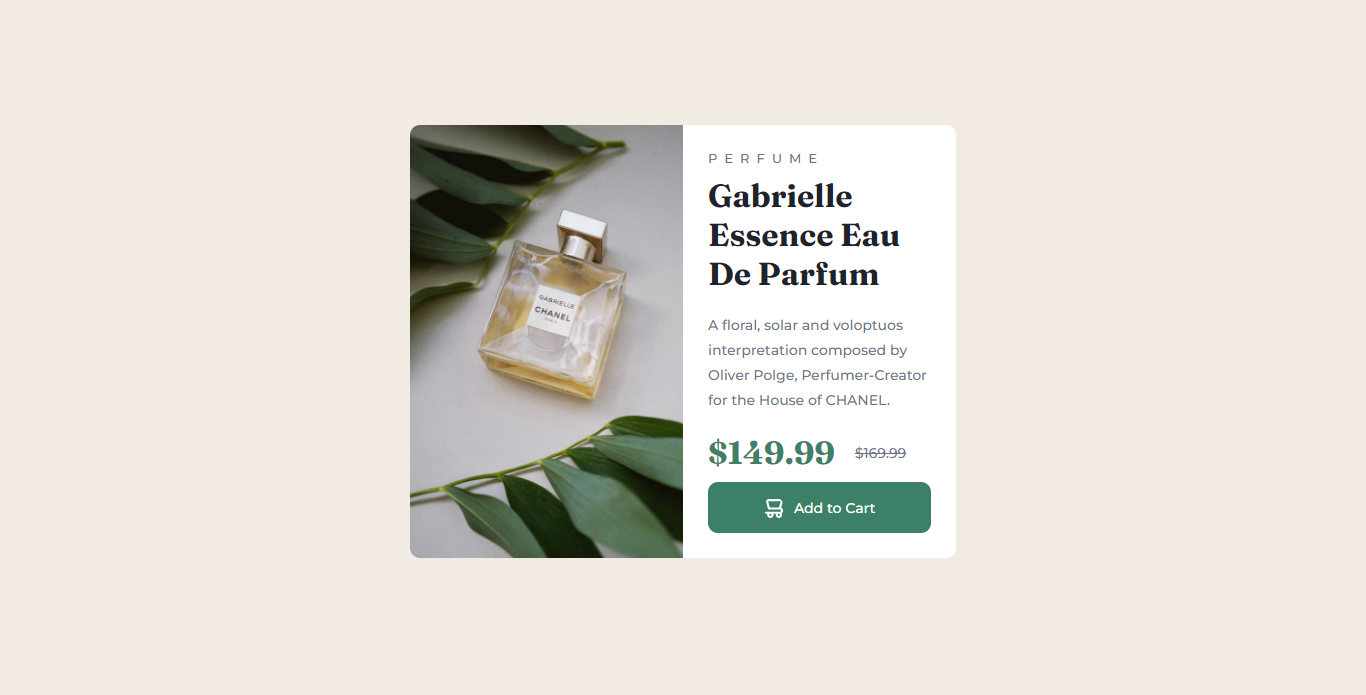
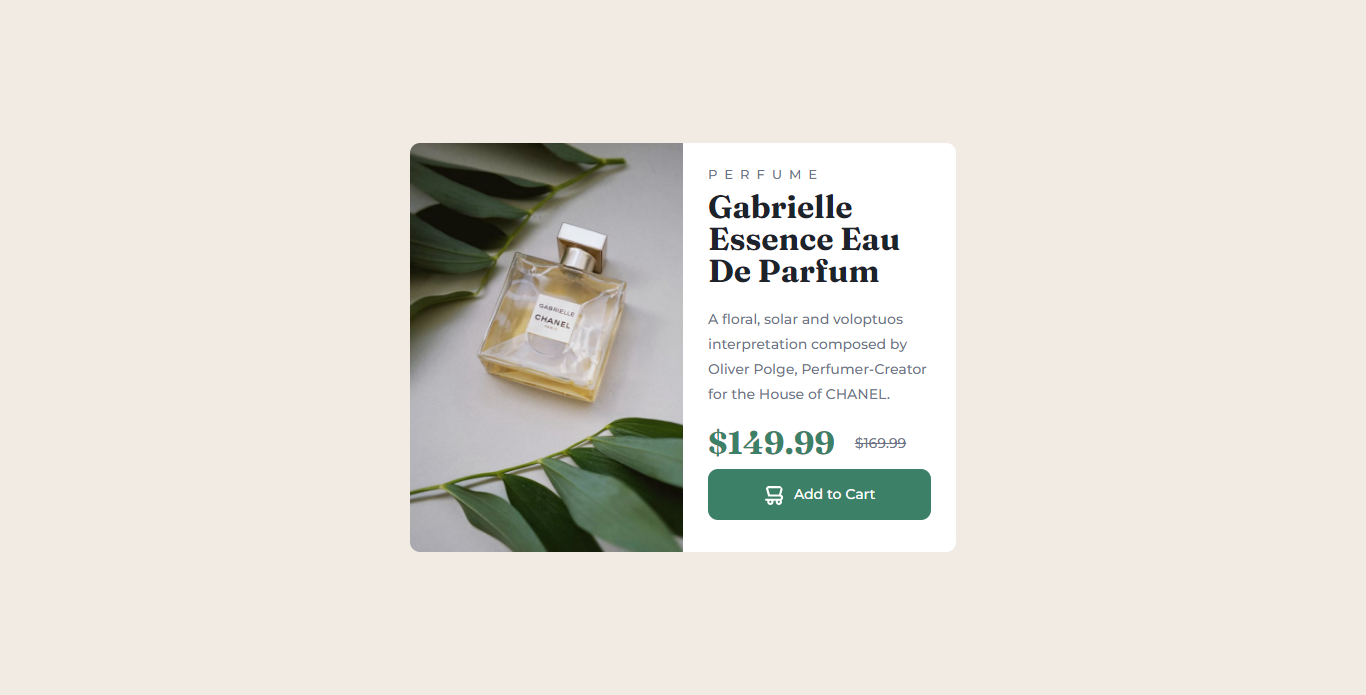
Solution to the Frontend Mentor Challenge

diff --git a/index.html b/index.html
@@ -1,35 +1,41 @@
 <!DOCTYPE html>
 <html lang="en">
+
 <head>
   <meta charset="UTF-8">
-  <meta name="viewport" content="width=device-width, initial-scale=1.0"> <!-- displays site properly based on user's device -->
+  <meta name="viewport" content="width=device-width, initial-scale=1.0">
+  <!-- displays site properly based on user's device -->
   <link rel="icon" type="image/png" sizes="32x32" href="./images/favicon-32x32.png">
   <title>Frontend Mentor | Product preview card component</title>
   <link rel="preconnect" href="https://fonts.googleapis.com">
   <link rel="preconnect" href="https://fonts.gstatic.com" crossorigin>
-  <link href="https://fonts.googleapis.com/css2?family=Fraunces:opsz,wght@9..144,700&family=Montserrat:wght@500;700&display=swap" rel="stylesheet">
+  <link
+    href="https://fonts.googleapis.com/css2?family=Fraunces:opsz,wght@9..144,700&family=Montserrat:wght@500;700&display=swap"
+    rel="stylesheet">
   <link rel="stylesheet" href="css/styles.css">
 </head>
+
 <body>
-  <div class="container">
-    <div class="card">
-      <img src="images/image-product-mobile.jpg" alt="product image" class="show-mobile">
-      <img src="images/image-product-desktop.jpg" alt="product image" class="show-desktop">
-      <div class="information">
-        <h3>PERFUME</h3>
 
-        <h1>Gabrielle Essence Eau De Parfum</h1>
+  <div class="card">
+    <img src="images/image-product-mobile.jpg" alt="product image" class="show-mobile">
+    <img src="images/image-product-desktop.jpg" alt="product image" class="show-desktop">
+    <div class="information">
+      <h3>PERFUME</h3>
 
-        <p>A floral, solar and voloptuos interpretation composed by Oliver Polge, Perfumer-Creator for the House of CHANEL.</p>
+      <h1>Gabrielle Essence Eau De Parfum</h1>
 
-        <div class="prices">
-          <h2>$149.99</h2>
-          <span>$169.99</span>
-        </div>
+      <p>A floral, solar and voloptuos interpretation composed by Oliver Polge, Perfumer-Creator for the House of
+        CHANEL.</p>
 
-        <a href="#"><img src="images/icon-cart.svg"> <span>Add to Cart</span></a>
+      <div class="prices">
+        <h2>$149.99</h2>
+        <span>$169.99</span>
       </div>
+
+      <a href="#"><img src="images/icon-cart.svg"> <span>Add to Cart</span></a>
     </div>
   </div>
 </body>
+
 </html>

diff --git a/css/styles.css b/css/styles.css
@@ -1,25 +1,45 @@
-*{
-    margin: 0;
-    padding: 0;
+html, body, div, span, applet, object, iframe,
+h1, h2, h3, h4, h5, h6, p, blockquote, pre,
+a, abbr, acronym, address, big, cite, code,
+del, dfn, em, img, ins, kbd, q, s, samp,
+small, strike, b, sub, sup, tt, var,
+b, u, i, center,
+dl, dt, dd, ol, ul, li,
+fieldset, form, label, legend,
+table, caption, tbody, tfoot, thead, tr, th, td,
+article, aside, canvas, details, embed,
+figure, figcaption, footer, header, hgroup,
+menu, nav, output, ruby, section, summary,
+time, mark, audio, video {
+	margin: 0;
+	padding: 0;
+	border: 0;
+	font-size: 100%;
+	font: inherit;
+	vertical-align: baseline;
+}
+
+article, aside, details, figcaption, figure,
+footer, header, hgroup, menu, nav, section {
+	display: block;
 }
 
 body{
     font-family: 'Montserrat', sans-serif;
     background: hsl(30, 38%, 92%);
     font-size: 14px;
-}
-
-
-.container{
+    line-height: 1;
+    min-height: 100vh;
     display: grid;
-    place-items: center;
+    place-content: center ;
+    
 }
 
 .card{
-    margin: 13px 0;
     width: 90%;
     border-radius: 10px;
     background: hsl(0, 0%, 100%);
+    margin: 0 auto;
 }
 
 .show-desktop{
@@ -104,16 +124,16 @@ a:active{
 }
 
 @media screen and (min-width: 900px) {
-    .container{
-        display: flex;
-        align-items: center;
-        justify-content: center;
+    body{
+        min-height: 100vh;
+        display: grid;
+        place-content: center ;
     }
 
     .card{
-        margin-top: 125px;
         width: 40%;
         display: flex;
+        margin: 0 auto;
     }
 
     .show-desktop{
@@ -125,5 +145,6 @@ a:active{
     .show-mobile{
         display: none;
     }
+    
 
 }
